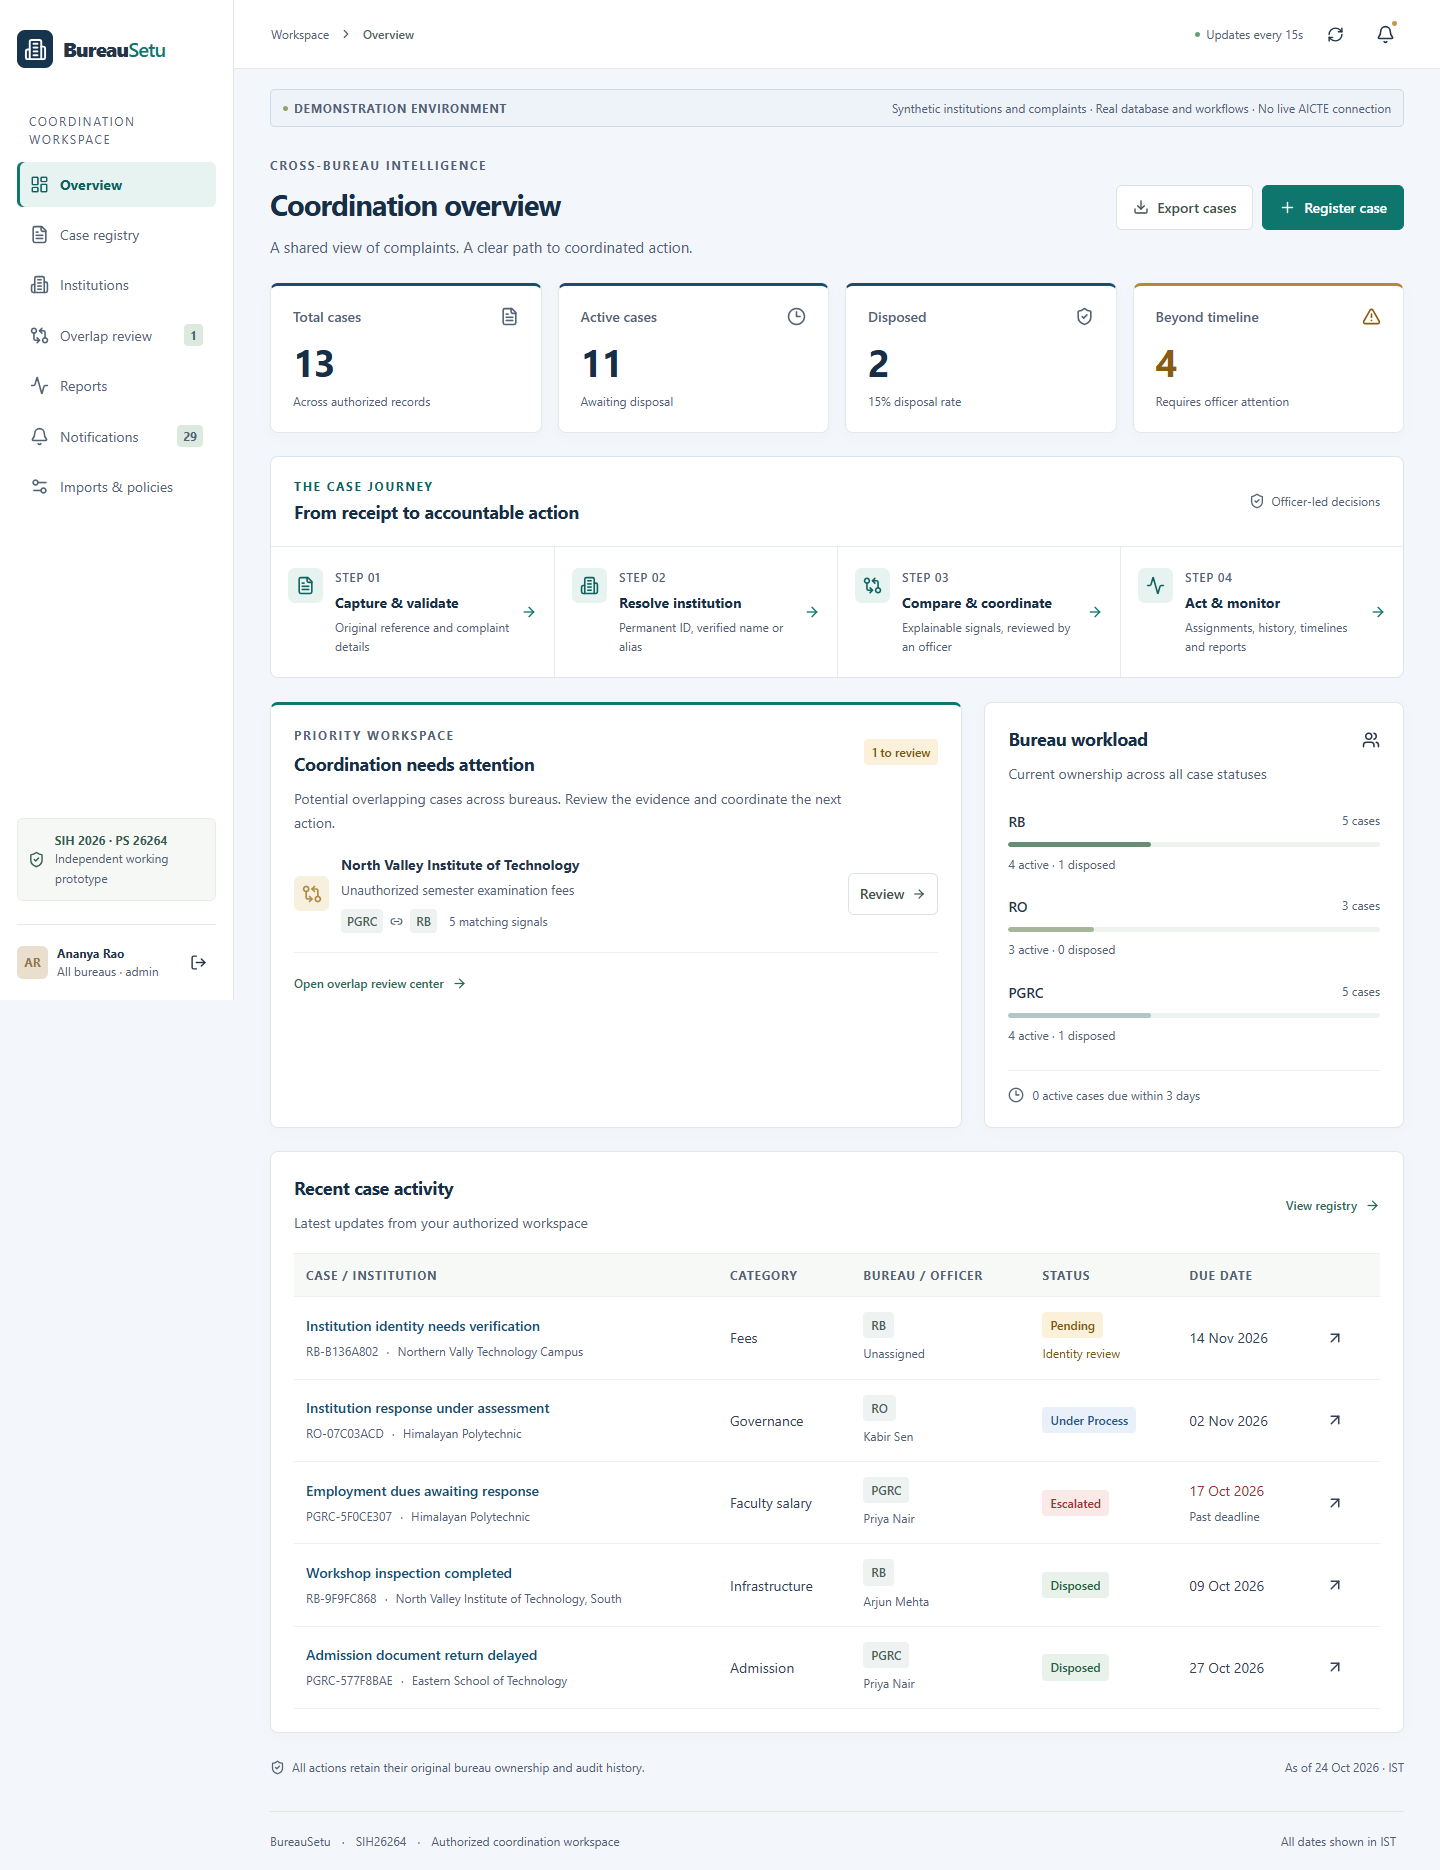
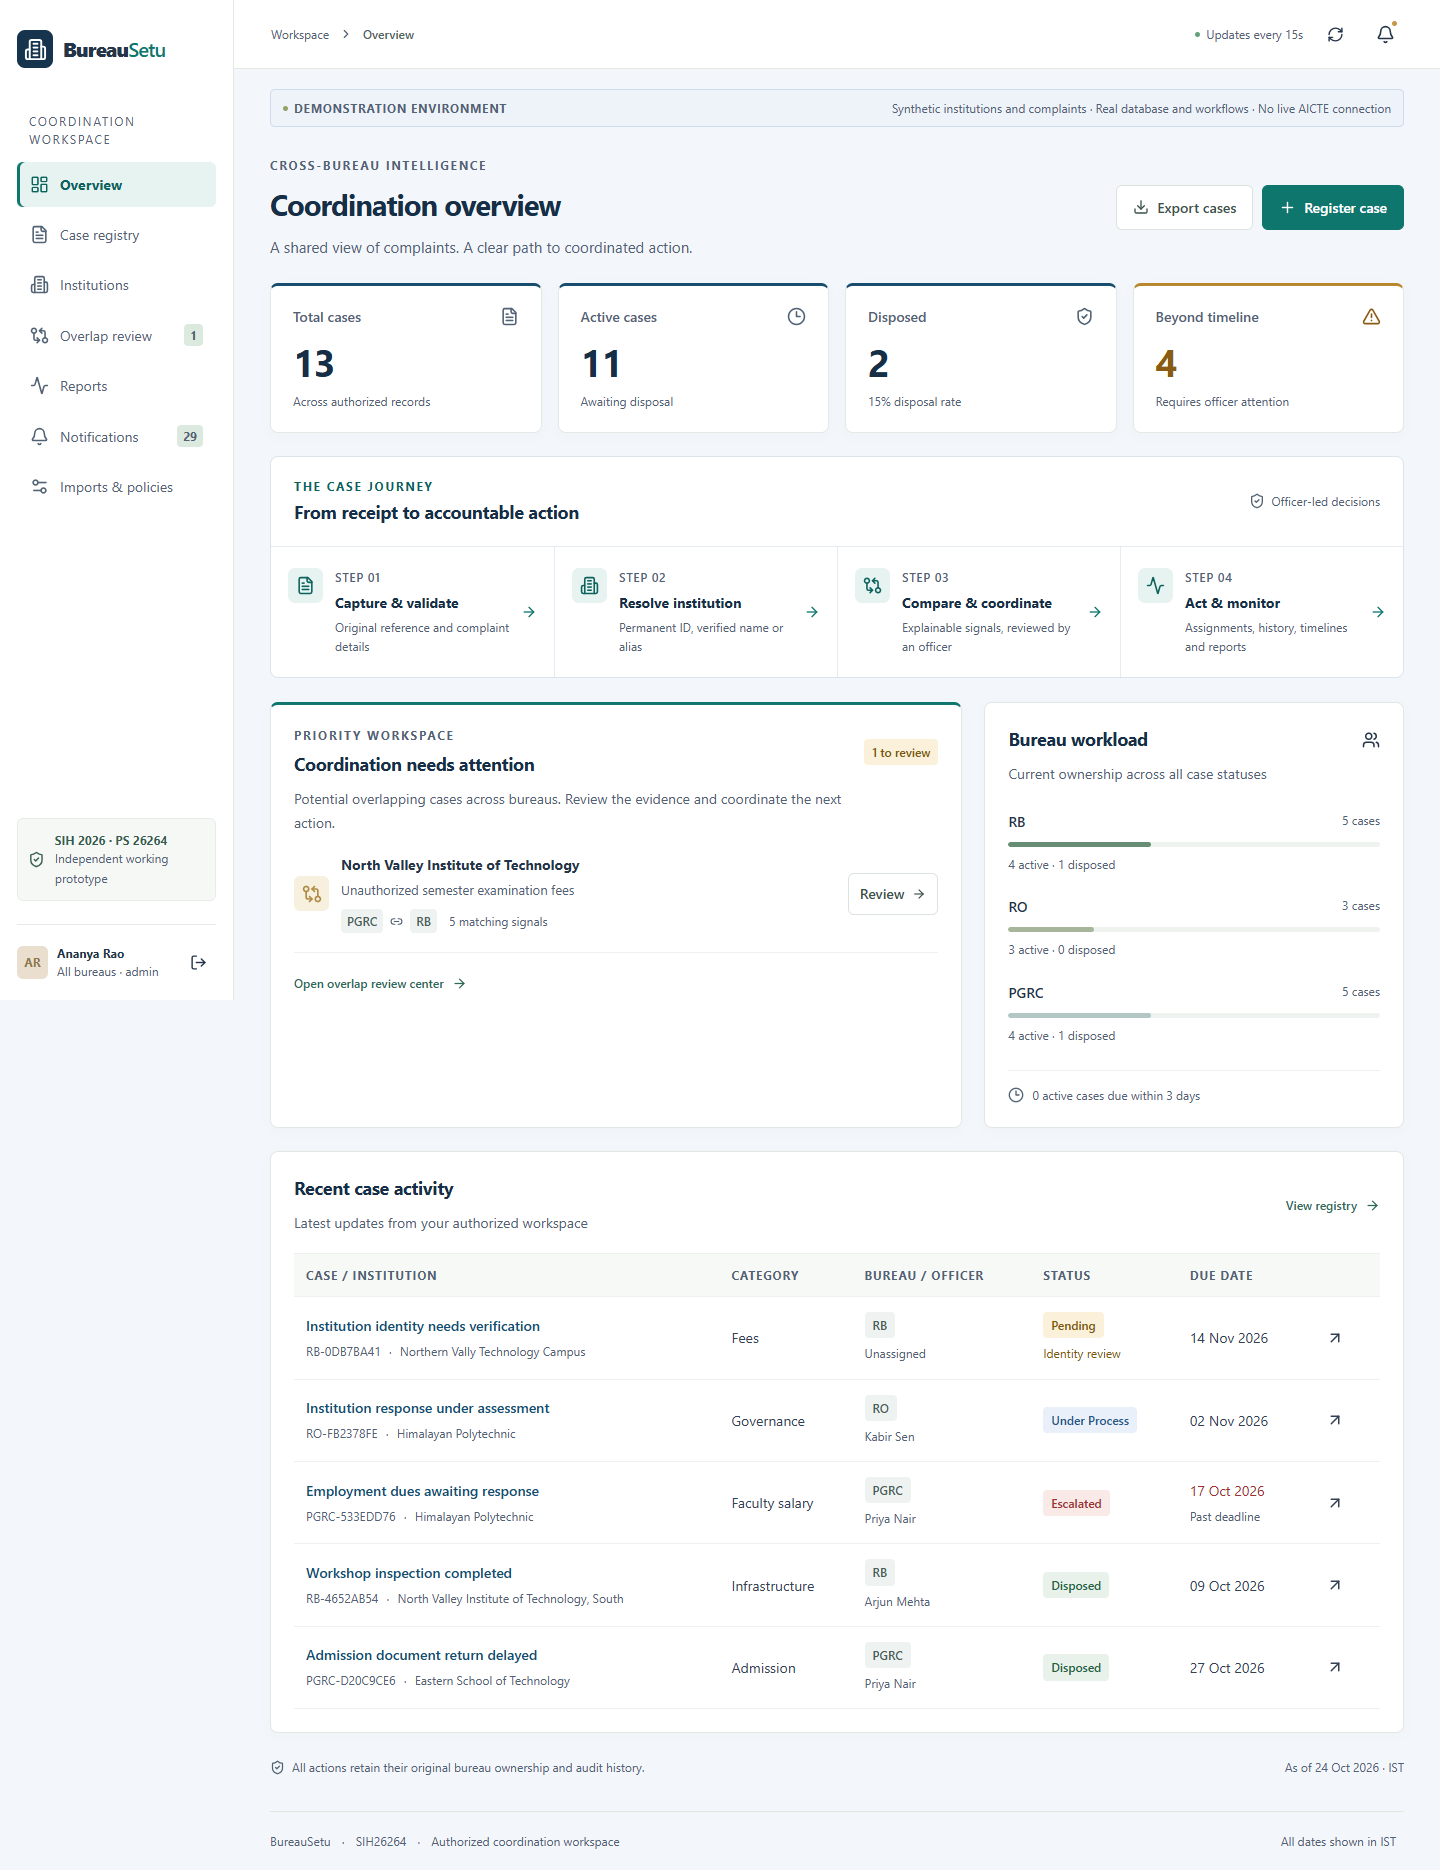
Document BureauSetu hosting modes and preserve Pages integration

diff --git a/src/main.tsx b/src/main.tsx
@@ -28,6 +28,9 @@ import {
 } from "lucide-react";
 import { api, send, ApiError } from "./api";
 import "./styles.css";
+const browserPreview =
+  window.location.hostname.endsWith(".github.io") ||
+  window.location.protocol === "file:";
 type User = {
   id: string;
   name: string;
@@ -178,7 +181,7 @@ function App() {
     [review, setReview] = useState<any>(null),
     [selectedInstitution, setSelectedInstitution] = useState<any>(null);
   const [loginEmail, setLoginEmail] = useState("admin@demo.local"),
-    [loginPassword, setLoginPassword] = useState("LocalDemo-26264!");
+    [loginPassword, setLoginPassword] = useState("");
   const loadGeneration = React.useRef(0);
   const query = new URLSearchParams(
     Object.entries(filters).filter(([, v]) => v),
@@ -604,12 +607,18 @@ function App() {
           <div className="demo-banner">
             <span>
               <span className="demo-dot" />
-              {demo ? "DEMONSTRATION ENVIRONMENT" : "WORKSPACE"}
+              {browserPreview
+                ? "BUREAUSETU · STATIC PREVIEW"
+                : demo
+                  ? "DEMONSTRATION ENVIRONMENT"
+                  : "WORKSPACE"}
             </span>
             <span>
-              {demo
-                ? "Synthetic institutions and complaints · Real database and workflows"
-                : "External bureau synchronization is not configured"}
+              {browserPreview
+                ? "Synthetic browser-only demonstration · No server database · Changes are temporary"
+                : demo
+                  ? "Synthetic institutions and complaints · Real database and workflows"
+                  : "External bureau synchronization is not configured"}
               <span className="banner-extra"> · No live AICTE connection</span>
             </span>
           </div>
@@ -796,18 +805,20 @@ function App() {
                       </div>
                       <div className="priority-body">
                         <strong>
-                          {
-                            institutions.find(
-                              (i) => i.id === r.a?.institution_id,
-                            )?.name || r.a?.institution_name || "Institution"
-                          }
+                          {institutions.find(
+                            (i) => i.id === r.a?.institution_id,
+                          )?.name ||
+                            r.a?.institution_name ||
+                            "Institution"}
                         </strong>
                         <p>{r.a?.title}</p>
                         <div className="inline-tags">
                           <Badge>{r.a?.bureau}</Badge>
                           <Link2 size={13} />
                           <Badge>{r.b?.bureau}</Badge>
-                          <span>{(r.reasons || []).length} matching signals</span>
+                          <span>
+                            {(r.reasons || []).length} matching signals
+                          </span>
                         </div>
                       </div>
                       <button
@@ -1065,10 +1076,10 @@ function App() {
                       </Badge>
                     </div>
                     <h2>
-                      {
-                        institutions.find((i) => i.id === r.a?.institution_id)
-                          ?.name || r.a?.institution_name || "Institution"
-                      }
+                      {institutions.find((i) => i.id === r.a?.institution_id)
+                        ?.name ||
+                        r.a?.institution_name ||
+                        "Institution"}
                     </h2>
                     <div className="comparison">
                       <div>

diff --git a/docs/TEST_REPORT.md b/docs/TEST_REPORT.md
@@ -37,6 +37,8 @@ Brand rename to BureauSetu: browser title, login/sidebar branding, loading text,
 
 Completed rebrand verification: **29 API/domain tests passed, 7 browser journeys passed, production build passed and production startup/security smoke passed**. No old product-name references remain in tracked text files. The local renamed database passed `PRAGMA integrity_check` and retained all 13 cases; the original ignored database is retained as a backup. Environment secrets and runtime databases are excluded from Git.
 
+Repository integration: newer GitHub commits introducing a Pages build and synthetic browser preview were preserved during rebase. The production smoke test retains their relative-asset URL fix together with the BureauSetu title. The static-preview banner and README explicitly distinguish browser-only demonstration data from the server/database application; login fields do not prefill the local password.
+
 Browser outputs: `playwright-report/index.html` and `test-results/` (ignored generated files). Screenshots: `docs/screenshots/overview.png`, `docs/screenshots/mobile.png`. Desktop screenshot visually inspected; final screenshot refresh is part of final browser rerun.
 
 ## Defects found and resolved

diff --git a/README.md b/README.md
@@ -52,6 +52,10 @@ Production serves `dist` and the API from one Express process. Set `NODE_ENV=pro
 
 ## Architecture
 
+### Hosting modes
+
+The GitHub Pages workflow publishes a **BureauSetu static demonstration** using synthetic browser data from `src/mockData.ts`. It is not the authenticated server application: browser-preview records and actions are temporary, and no backend authorization or persistent database is provided by Pages. Use the local Node server or a properly configured Node/Docker host for the real API, authentication, audit history and SQLite persistence. The static-preview banner identifies this distinction.
+
 React 19 + TypeScript + Vite → same-origin Express API → authorization/validation → domain services → SQLite with foreign keys, WAL, transactions and append-only events. Migrations execute on server startup. Cookie sessions store only token hashes in the database. Internal views poll every 15 seconds; external records are snapshots with provenance and freshness dates.
 
 ## Demonstrate
